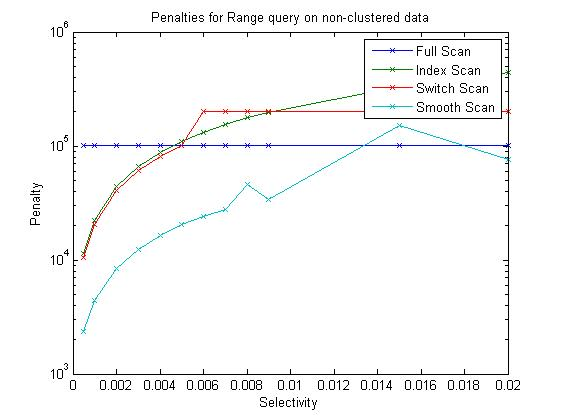
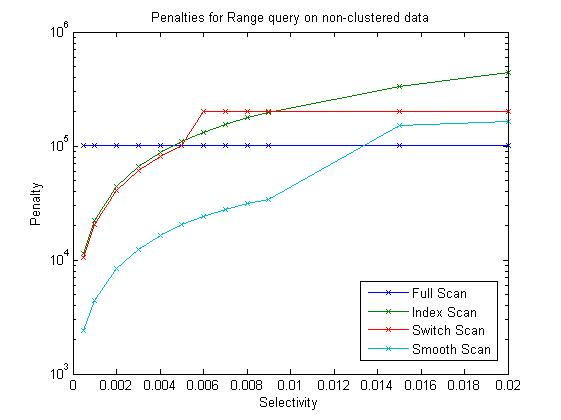
nieuwe figuren voor treshold23 0.01

diff --git a/Report/Simulation/test.m b/Report/Simulation/test.m
@@ -20,7 +20,7 @@ for i=1:length(SELECTIVITIES)
     SELECTIVITY = SELECTIVITIES(i);
     %# Fill the array with 0 and 1 and reorder]
     size = int64((1-SELECTIVITY)*PAGECNT);
-    Data = [ones(TUPLECNT,floor(SELECTIVITY*PAGECNT)) zeros(TUPLECNT,floor((1-SELECTIVITY)*PAGECNT)) ];
+    Data = [ones(TUPLECNT,floor(SELECTIVITY*PAGECNT))  zeros(TUPLECNT,floor((1-SELECTIVITY)*PAGECNT))];
     %memory
     Data(randperm(numel(Data))) = Data;
 
@@ -45,7 +45,7 @@ for i=1:length(SELECTIVITIES)
     %% RUN a switch scan on the data above
     ss = SwitchScan(Data);
     ss.switchscan(cardinality);
-    ss
+    ss;
     ssPenaltyRand(i) = ss.randomPagePenalty;
     ssPenaltySeq(i)= ss.sequentialPagePenalty;
     ssPenaltyReturn(i)= ss.returnPenalty;
@@ -53,7 +53,7 @@ for i=1:length(SELECTIVITIES)
     %% RUN a smooth scan on the data above
     sms = SmoothScan(Data);
     sms.smoothscan();
-    sms
+    sms;
     smsPenaltyRand(i) = sms.randomPagePenalty;
     smsPenaltySeq(i)  = sms.sequentialPagePenalty;
     smsPenaltyReturn(i)= sms.returnPenalty;

diff --git a/Report/Simulation/SmoothScan.m b/Report/Simulation/SmoothScan.m
@@ -1,6 +1,6 @@
 classdef SmoothScan < IndexScan & handle
     properties
-        thresholdM23    = 1;
+        thresholdM23    = 0.01;
         thresholdM34    = 0.005;
         
         previousPage = -1;
